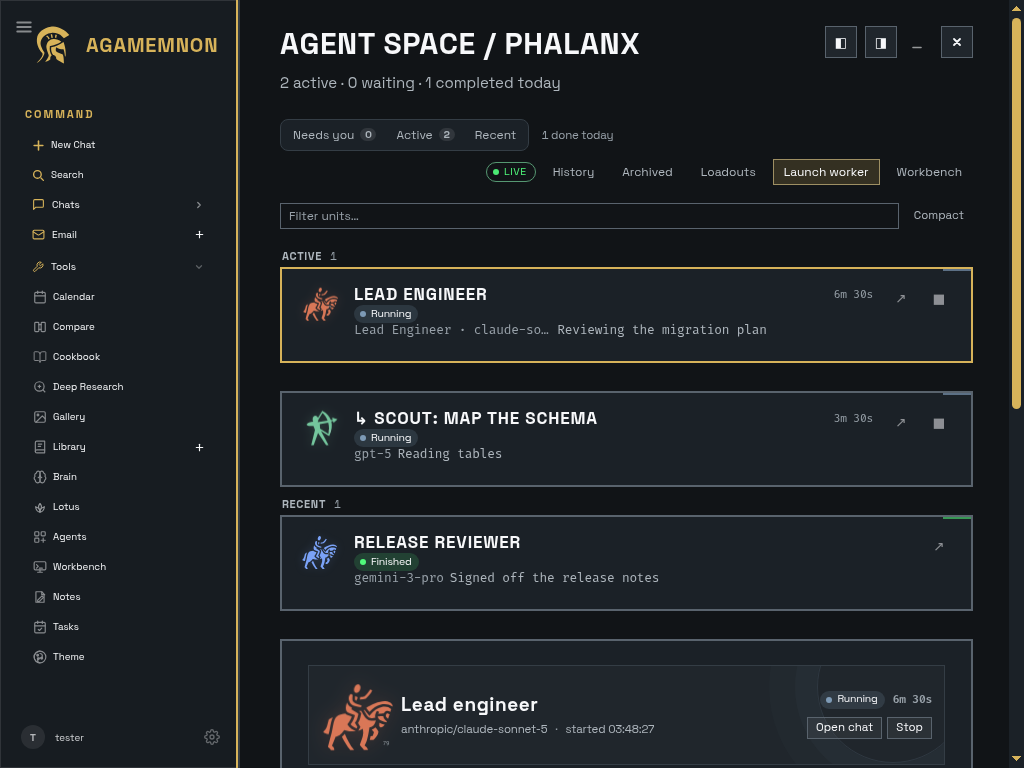
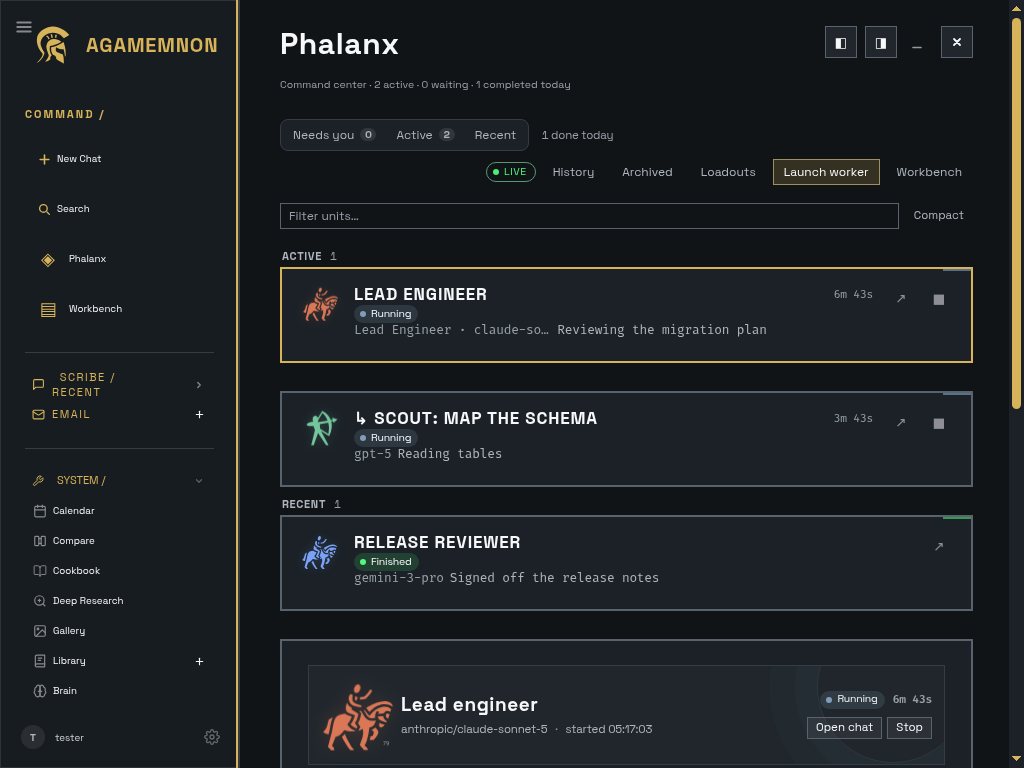
Refresh Agamemnon runtime evidence and preserve docked run context

diff --git a/static/agamemnon-mockup.css b/static/agamemnon-mockup.css
@@ -96,7 +96,7 @@ html[data-theme="dark"] .ag-context-rail dl div{display:flex;gap:6px;margin:0;wh
 html[data-theme="dark"] .ag-context-rail dl div:first-child{display:none}
 html[data-theme="dark"] .ag-context-rail dd{margin:0;color:var(--ag-text)}
 html[data-theme="dark"] .ag-context-rail i{display:inline-block;width:7px;height:7px;border-radius:50%;background:var(--ag-gold);margin-right:6px}
-html[data-theme="dark"] .ag-context-rail button{display:block;width:auto;height:auto;min-height:32px;margin:0;padding:6px 11px;text-align:left;white-space:nowrap;color:var(--ag-text);background:var(--ag-raised);border:1px solid var(--ag-border-strong);border-radius:0;font:500 13px 'Space Grotesk';cursor:pointer}
+html[data-theme="dark"] .ag-context-rail button{display:block;width:auto;height:auto;min-height:44px;margin:0;padding:6px 11px;text-align:left;white-space:nowrap;color:var(--ag-text);background:var(--ag-raised);border:1px solid var(--ag-border-strong);border-radius:0;font:500 13px 'Space Grotesk';cursor:pointer}
 html[data-theme="dark"] .ag-context-rail button:hover{border-color:var(--ag-gold);color:var(--ag-gold)}
 html[data-theme="dark"] .ag-context-rail button:focus-visible{outline:2px solid var(--ag-gold);outline-offset:2px}
 
@@ -216,9 +216,12 @@ html[data-theme="dark"] #workbench-modal .workbench-modal-body>.wb-panel{positio
 html[data-theme="dark"] #workbench-modal:not(.modal-right-docked):not(.modal-left-docked) .workbench-modal-body>.wb-panel{height:auto;min-height:380px}
 html[data-theme="dark"] #workbench-modal:not(.modal-right-docked):not(.modal-left-docked) .wb-activity{min-height:280px;max-height:500px;overflow:auto}
 html[data-theme="dark"] .wb-panel[data-wb-panel="activity"]::after{content:none!important}
-/* Docked: the run summary would crowd out the working tabs in a side panel. */
-html[data-theme="dark"] #workbench-modal.modal-right-docked .ag-run-control,html[data-theme="dark"] #workbench-modal.modal-right-docked .ag-run-detail,
-html[data-theme="dark"] #workbench-modal.modal-left-docked .ag-run-control,html[data-theme="dark"] #workbench-modal.modal-left-docked .ag-run-detail{display:none}
+/* Docking rearranges the same Activity panel instead of silently removing
+   run context. The three readouts have independent scroll regions so the
+   feed remains accessible immediately below, even in a narrow side panel. */
+html[data-theme="dark"] #workbench-modal:is(.modal-right-docked,.modal-left-docked) .ag-run-control{display:grid;grid-template-rows:auto minmax(90px,110px) minmax(90px,110px);gap:8px}
+html[data-theme="dark"] #workbench-modal:is(.modal-right-docked,.modal-left-docked) .ag-run-control>section{padding:12px 14px}
+html[data-theme="dark"] #workbench-modal:is(.modal-right-docked,.modal-left-docked) .ag-run-detail{display:block;max-height:150px;padding:12px 14px}
 html[data-theme="dark"] #workbench-modal:is(.modal-right-docked,.modal-left-docked) .wb-panel[data-wb-panel="activity"]{display:flex;flex-direction:column}
 html[data-theme="dark"] #workbench-modal .wb-panel.hidden{display:none!important}
 
@@ -245,6 +248,7 @@ html[data-theme="dark"] #workbench-modal .wb-panel.hidden{display:none!important
  html[data-theme="dark"] .ag-context-rail section:has(dl),html[data-theme="dark"] .ag-context-rail h3{display:none}
  html[data-theme="dark"] .ag-context-rail section:has(>button){display:flex;flex-direction:row;gap:6px}
  html[data-theme="dark"] .ag-context-rail button{padding:6px 9px;font-size:12.5px}
+ html[data-theme="dark"] #workbench-modal .workbench-modal-body>.wb-tabs{flex-wrap:wrap!important;overflow:visible!important}
  html[data-theme="dark"] .ag-console-hero{grid-template-columns:64px minmax(0,1fr);row-gap:8px}
  html[data-theme="dark"] .ag-console-robot-bay{width:64px;height:64px}
  html[data-theme="dark"] .ag-console-status{grid-column:1/-1;flex-direction:row;flex-wrap:wrap;align-items:center;justify-content:space-between}

diff --git a/static/app.js b/static/app.js
@@ -2474,7 +2474,12 @@ function initializeEventListeners() {
 	        textarea.setAttribute('placeholder', 'Swipe to toggle plan');
 	        return;
 	      }
-	      textarea.setAttribute('placeholder', width < PLACEHOLDER_COMPACT_WIDTH ? 'Message...' : 'Message Odysseus...');
+	      // Docking and responsive picker changes re-run this setter. Keep its
+	      // identity in sync with the active theme instead of restoring the
+	      // ordinary chat name after the theme module has applied Scribe.
+	      const scribe = document.documentElement.dataset.theme === 'dark';
+	      textarea.setAttribute('placeholder', scribe ? 'Message Scribe…' :
+	        (width < PLACEHOLDER_COMPACT_WIDTH ? 'Message...' : 'Message Odysseus...'));
 	    }
 
 	    if (_isMobile && textarea && !textarea._odysseusPlanPlaceholderHint) {

diff --git a/tests/test_agamemnon_runtime_layout.py b/tests/test_agamemnon_runtime_layout.py
@@ -251,6 +251,10 @@ def test_workbench_draws_only_the_selected_tab(open_app, width):
     page = open_app(width)
     open_workbench(page)
     shot(page, "workbench")
+    if width <= 390:
+        tabs = page.eval("[...document.querySelectorAll('#workbench-modal [data-wb-tab]')].map(t => ({label:t.textContent.trim(), right:t.getBoundingClientRect().right, visible:getComputedStyle(t).display !== 'none'}))")
+        assert all(tab['visible'] and tab['right'] <= width + 1 for tab in tabs), tabs
+        assert any('Pull Requests' in tab['label'] for tab in tabs), tabs
     assert visible_panels(page) == ["activity"]
     for tab, label in (("changes", "Changes"), ("commits", "Commits"), ("prs", "Pull Requests"), ("activity", "Activity")):
         selector = f'#workbench-modal [data-wb-tab="{tab}"]'
@@ -299,7 +303,12 @@ def test_workbench_docks_beside_the_chat_and_keeps_working_tabs(open_app):
     time.sleep(0.4)
     shot(page, "workbench-docked")
     content = page.probe(".workbench-modal-content")
+    assert page.eval("document.getElementById('message').placeholder") == 'Message Scribe…'
     assert content["left"] > 600 and content["right"] <= 1441
+    for selector in ('.ag-run-summary', '.ag-run-timeline', '.ag-run-console', '.ag-run-detail'):
+        box = page.probe(selector)
+        assert box['visible'] and box['right'] <= 1440, (selector, box)
+    assert page.probe('.ag-run-detail')['top'] >= page.probe('.ag-run-console')['bottom']
     # The chat makes room and stays usable beside it.
     for selector in ("#chat-history", ".chat-input-bar", ".ag-context-rail"):
         assert page.probe(selector)["right"] <= content["left"] + 1, selector
@@ -396,6 +405,7 @@ def test_agents_dock_and_close_keep_working(open_app):
     time.sleep(0.4)
     shot(page, "agents-docked")
     content = page.probe(".agents-modal-content")
+    assert page.eval("document.getElementById('message').placeholder") == 'Message Scribe…'
     assert content["left"] > 500 and content["right"] <= 1441
     for selector in ("#chat-history", ".chat-input-bar", ".ag-context-rail"):
         assert page.probe(selector)["right"] <= content["left"] + 1, selector

diff --git a/website/agamemnon-runtime-repair-verification.md b/website/agamemnon-runtime-repair-verification.md
@@ -10,7 +10,7 @@ The production theme cascade previously forced every Workbench secondary panel i
 
 `tests/test_agamemnon_runtime_layout.py` starts the actual `static/index.html` and JavaScript against a representative local API stub and drives Chromium through its native DevTools protocol. It checks 1440, 1280, 1024, 390 and 320px; the fixture contains a long transcript and code line, three agents and a run timeline. Checks cover actual bounding boxes, horizontal overflow, transcript scroll, typing and send-request dispatch, selected session/model/status, agent card selection and visible detail, parent appearance save/reload through the API stub, Workbench navigation/tabs/dock/close, theme switching, and ordinary Odysseus rendering. A failing production CSS cascade caused the initial browser checks to fail before the repair. The fixture is deliberately not an LLM, database or real durable-run service: send verifies request dispatch, not an AI response or backend delivery; appearance reload verifies the browser/API contract against stub storage, not the deployed database. No server-backed live-app end-to-end test was available in the sandbox.
 
-Screenshots from the **actual production HTML/CSS/JS running in Chromium against that stub**, not hand-authored page previews, are in `website/agamemnon-runtime-evidence/`: `chat-{1440,1280,1024,390,320}.png`, `agents-{1440,1280,1024,390,320}.png`, `workbench-{1440,1280,1024,390,320}.png`, docked desktop views, and ordinary `odysseus-chat-{1440,390}.png`. Screenshots are generated by setting `AGAMEMNON_SCREENSHOT_DIR=website/agamemnon-runtime-evidence` for the browser test.
+Screenshots were regenerated from the Agamemnon navigation/Workbench branch after the Scribe/Phalanx redesign and the responsive-composer fix (October 2, 2026). The earlier captures showed outdated Chat/Strategy Room labels and must not be used to assess the current design. Screenshots from the **actual production HTML/CSS/JS running in Chromium against that stub**, not hand-authored page previews, are in `website/agamemnon-runtime-evidence/`: `chat-{1440,1280,1024,390,320}.png`, `agents-{1440,1280,1024,390,320}.png`, `workbench-{1440,1280,1024,390,320}.png`, docked desktop views, and ordinary `odysseus-chat-{1440,390}.png`. Screenshots are generated by setting `AGAMEMNON_SCREENSHOT_DIR=website/agamemnon-runtime-evidence` for the browser test.
 
 | View | Screenshots |
 |---|---|
@@ -19,6 +19,8 @@ Screenshots from the **actual production HTML/CSS/JS running in Chromium against
 | Workbench | [workbench-1440.png](agamemnon-runtime-evidence/workbench-1440.png), [workbench-1280.png](agamemnon-runtime-evidence/workbench-1280.png), [workbench-1024.png](agamemnon-runtime-evidence/workbench-1024.png), [workbench-390.png](agamemnon-runtime-evidence/workbench-390.png), [workbench-320.png](agamemnon-runtime-evidence/workbench-320.png), [workbench-docked-1440.png](agamemnon-runtime-evidence/workbench-docked-1440.png) |
 | Ordinary chat | [odysseus-chat-1440.png](agamemnon-runtime-evidence/odysseus-chat-1440.png), [odysseus-chat-390.png](agamemnon-runtime-evidence/odysseus-chat-390.png) |
  The 320px Agents screenshot exposed a child action overflowing its card; that was fixed with a wrapped child row and re-tested.
+
+Final navigation/Workbench review: at 320px the Workbench tabs now wrap instead of clipping Pull Requests; in the 1440px dock the same run summary, timeline, output, and details remain visible above the scrollable live feed, with no duplicate page header. Context-strip actions have 44px minimum height. The independent UI Design Critic identified the clipped tab and missing docked run context in the first refreshed screenshots; these were fixed and re-rendered. The updated browser run passed 72 targeted tests, including the docked run readouts, responsive tabs and Scribe placeholder. Screenshots remain stubbed production-asset renders, not a live-service or assistive-technology audit.
 
 Penpot file `77fbae64-173c-81f5-8008-b823d468d03d`, page `b44baf9e-64a9-4d69-958a-d07e52b9d89b`: Chat `51e8f401-6310-4ca6-a1e1-a25037d25953`, Agents `21e06404-5496-43be-8a32-d1e65883ce31`, Workbench `e8977336-40b5-4f21-b5e8-65a4b27c6d6e`. The wide-screen graphite/brass hierarchy and side-profile helmet/role soldier assets remain; compact screens deliberately stack content to keep working controls. Penpot's viewer renders dark text on dark surfaces, limiting direct text/contrast comparison. The independent UI critic accepted the desktop/compact composition with changes and requested more real-service and accessibility coverage; browser testing and the 320px repair address part of that request, but do not substitute for a deployed-service audit.
 
